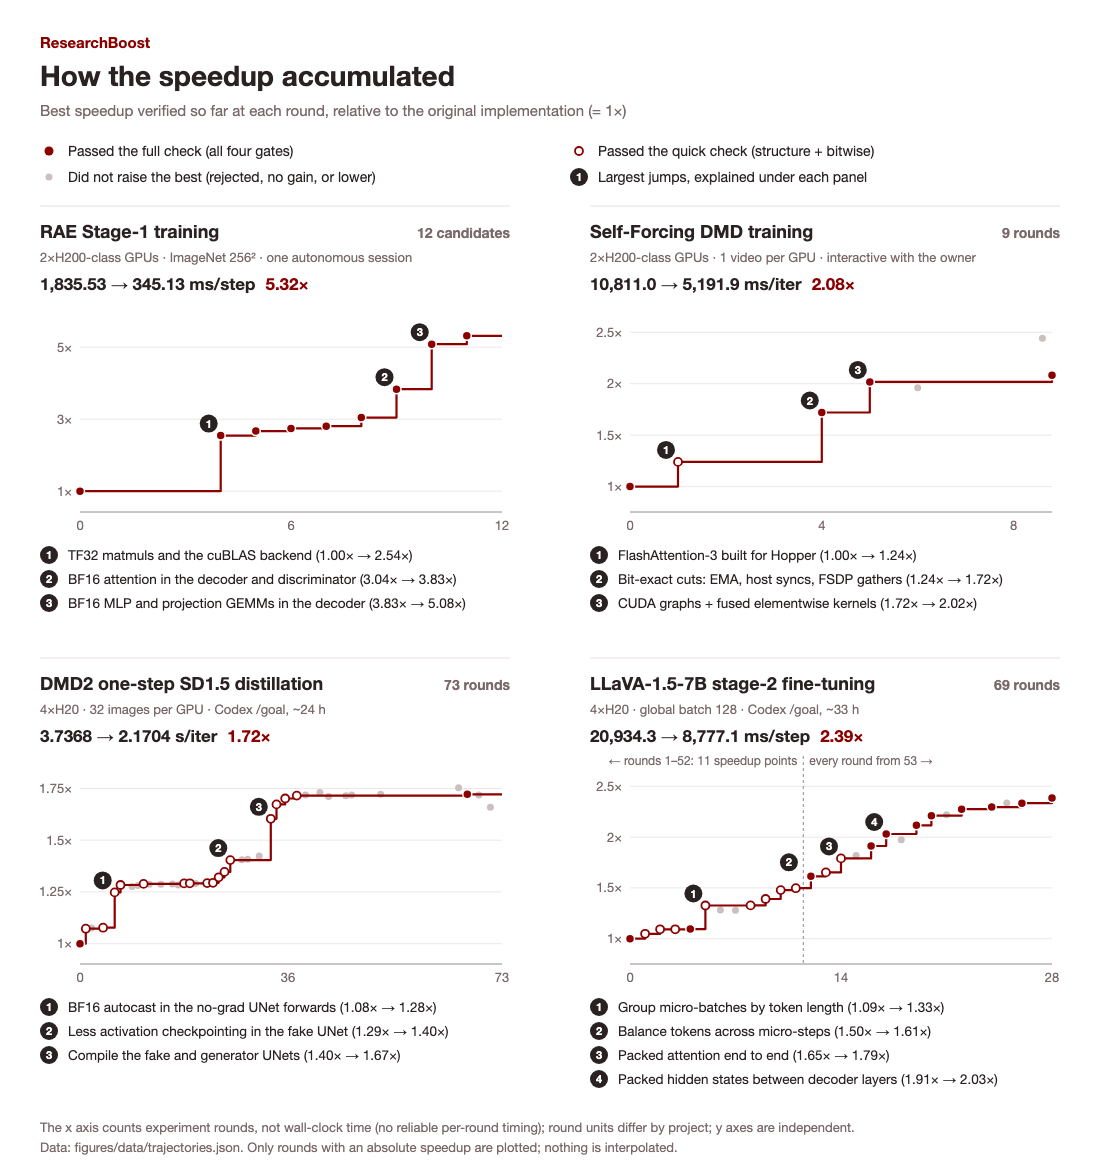
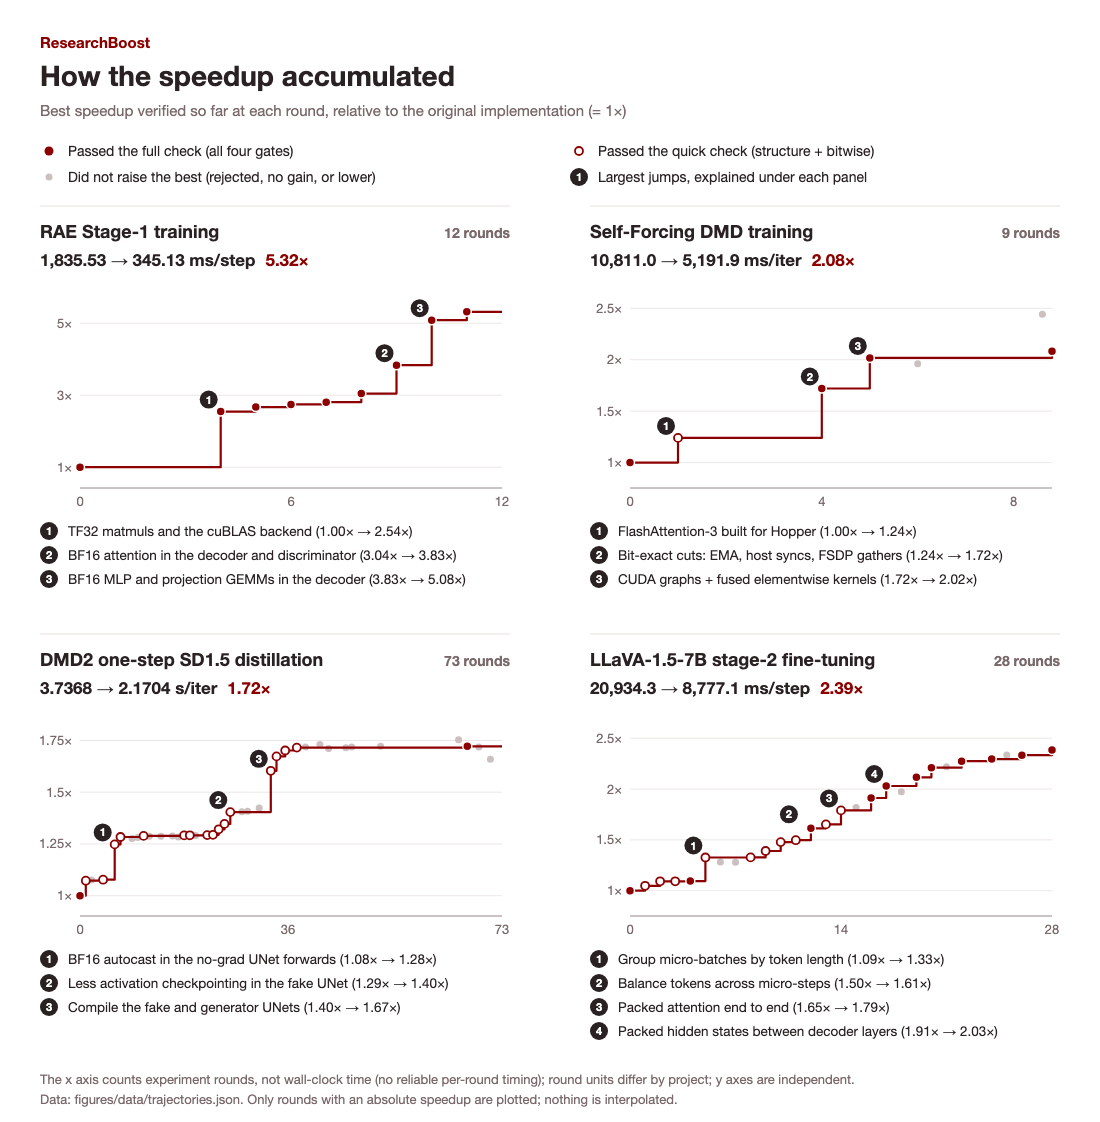
Sync ResearchBoost from Notion and add team BibTeX citation

diff --git a/assets/css/blog.css b/assets/css/blog.css
@@ -1,1 +1,3 @@
 .blog-shell{max-width:860px;margin:0 auto;padding:58px 36px 0;min-height:calc(100vh - 73px);display:flex;flex-direction:column}.blog-shell>.site-footer{margin-top:auto}.blog-intro{margin-bottom:40px}.blog-intro h1{font-family:Georgia,serif;font-size:48px;font-weight:400;letter-spacing:-1.5px;margin:14px 0 17px}.blog-intro>p:last-child{color:var(--muted)}.blog-posts{margin-bottom:100px}.blog-card{border-block:1px solid var(--line);padding:28px 0}.blog-card h2{font-size:29px;line-height:1.35;margin:10px 0 16px}.blog-card h2 a{color:var(--strong)}.blog-card>p:not(.publication-meta){color:var(--muted);line-height:1.9}.blog-card .paper-link{margin-top:20px}.article-header{margin-bottom:30px}.back-link{display:inline-block;font-size:12px;margin-bottom:30px}.article-header h1{font-family:Georgia,"Noto Serif SC",serif;font-size:42px;font-weight:400;line-height:1.2;letter-spacing:-1px;margin:12px 0 22px}.article-deck{color:var(--muted);font-size:16px;line-height:1.9}.article-toc{border:1px solid var(--line);background:var(--soft);padding:17px 22px;border-radius:6px;margin-bottom:36px;font-size:13px}.article-toc summary{cursor:pointer;color:var(--strong);font-weight:600}.article-toc ul{padding-left:20px}.article-toc>nav>ul{margin-bottom:0}.article-toc li{margin:8px 0}.article-body{font-size:16px;line-height:2;overflow-wrap:anywhere}.article-body p{margin:18px 0}.article-body h2{font-family:Inter,"PingFang SC","Microsoft YaHei",sans-serif;font-size:25px;font-weight:600;line-height:1.55;letter-spacing:-.5px;margin:46px 0 20px;padding-bottom:12px;border-bottom:1px solid var(--line)}.article-body h3{font-size:19px;line-height:1.6;margin:30px 0 14px}.article-body li{padding-left:4px;margin:10px 0}.article-body ul,.article-body ol{padding-left:24px}.article-body img{display:block;width:100%;height:auto;background:white;border:1px solid var(--line);border-radius:6px;margin:30px 0 10px}.article-body p:has(>img)+p:has(>em){font-size:12px;color:var(--muted);line-height:1.8;margin-top:10px}.article-body hr{border:0;border-top:1px solid var(--line);margin:36px 0}.article-body code{font-size:.9em;background:var(--soft);padding:2px 5px;border-radius:3px}.blog-shell>article{margin-bottom:45px}.blog-shell .site-footer{padding-top:24px}@media(max-width:740px){.blog-shell{padding:32px 22px 0;min-height:calc(100vh - 65px)}.blog-intro h1{font-size:40px}.blog-card h2{font-size:25px}.article-header h1{font-size:32px}.article-body{font-size:15px}.article-body h2{font-size:22px}.article-body h3{font-size:18px}.article-deck{font-size:14px}.article-toc{padding:15px}.blog-posts{margin-bottom:65px}}@media print{.article-toc,.back-link{display:none}.blog-shell{max-width:none;padding:0}.article-body{font-size:11pt}.article-body img{break-inside:avoid}}
+
+.article-body pre{overflow-x:auto;padding:18px;border:1px solid var(--line);border-radius:6px;background:var(--soft)!important;color:var(--text)!important;line-height:1.65;font-size:13px}.article-body pre code{padding:0;background:none;color:inherit;white-space:pre}
